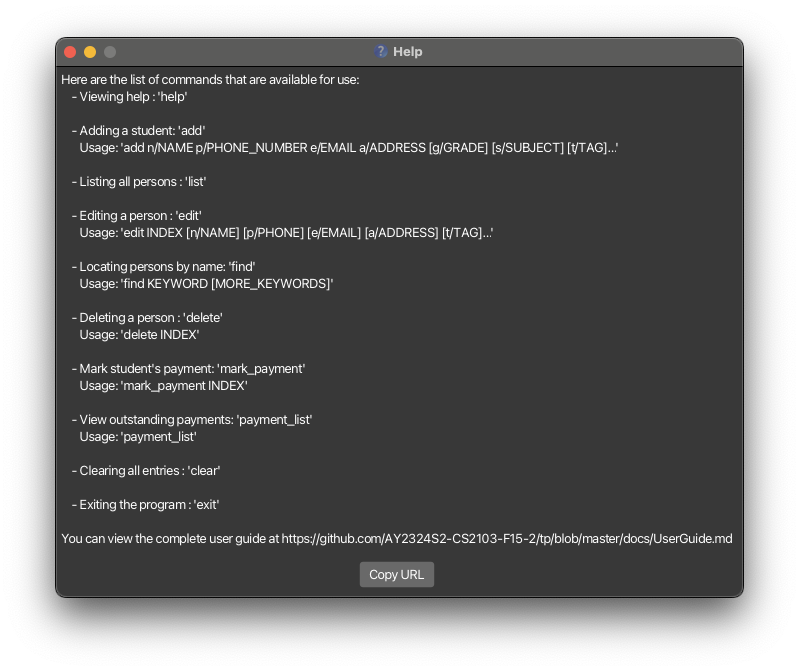
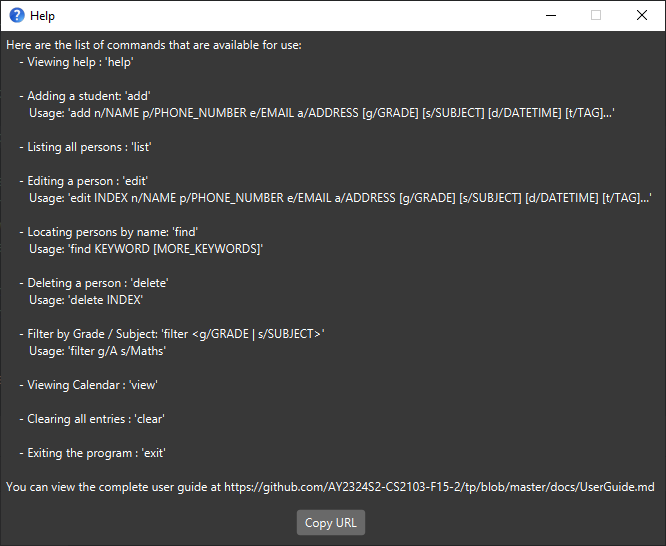
Update UserGuide.md

diff --git a/src/main/java/seedu/address/ui/HelpWindow.java b/src/main/java/seedu/address/ui/HelpWindow.java
@@ -33,6 +33,7 @@ public class HelpWindow extends UiPart<Stage> {
                     + "       Usage: 'delete INDEX'\n\n"
                     + "    - Filter by Grade / Subject: 'filter <g/GRADE | s/SUBJECT>'\n"
                     + "       Usage: 'filter g/A s/Maths'\n\n"
+                    + "    - Viewing Calendar : 'view'\n\n"
                     + "    - Clearing all entries : 'clear'\n\n"
                     + "    - Exiting the program : 'exit'\n\n"
                     + "You can view the complete user guide at "

diff --git a/docs/UserGuide.md b/docs/UserGuide.md
@@ -27,7 +27,7 @@ TutorsGo is a **desktop app for managing contacts, optimized for use via a Comma
 
    * `list` : Lists all contacts.
 
-   * `add n/John Doe p/98765432 e/johnd@example.com a/John street, block 123, #01-01 d/2024-02-03 1800 at/present pa/paid` : Adds a contact named `John Doe` to the Address Book.
+   * `add n/John Doe p/98765432 e/johnd@example.com a/John street, block 123, #01-01 s/English d/2024-02-03 1800` : Adds a contact named `John Doe` to the Address Book.
 
    * `delete 3` : Deletes the 3rd contact shown in the current list.
 
@@ -57,7 +57,7 @@ TutorsGo is a **desktop app for managing contacts, optimized for use via a Comma
 * Parameters can be in any order.<br>
   e.g. if the command specifies `n/NAME p/PHONE_NUMBER`, `p/PHONE_NUMBER n/NAME` is also acceptable.
 
-* Extraneous parameters for commands that do not take in parameters (such as `help`, `list`, `exit` and `clear`) will be ignored.<br>
+* Extraneous parameters for commands that do not take in parameters (such as `help`, `view` `list`, `exit` and `clear`) will be ignored.<br>
   e.g. if the command specifies `help 123`, it will be interpreted as `help`.
 
 * If you are using a PDF version of this document, be careful when copying and pasting commands that span multiple lines as space characters surrounding line-breaks may be omitted when copied over to the application.
@@ -76,7 +76,7 @@ Format: `help`
 
 Adds a student to the address book.
 
-Format: `add n/NAME p/PHONE_NUMBER e/EMAIL a/ADDRESS [g/GRADE] [s/SUBJECT] [d/DATETIME] [t/TAG]…`
+Format: `add n/NAME p/PHONE_NUMBER e/EMAIL a/ADDRESS [g/GRADE] [s/SUBJECT] [d/DATETIME]… [t/TAG]…`
 
 <div markdown="span" class="alert alert-primary">:bulb: **Tip:**
 A student can have any number of tags (including 0)
@@ -98,7 +98,7 @@ Format: `list`
 
 Edits an existing student in the address book.
 
-Format: `edit INDEX [n/NAME] [p/PHONE] [e/EMAIL] [a/ADDRESS] [t/TAG]…`
+Format: `edit INDEX [n/NAME] [p/PHONE] [e/EMAIL] [a/ADDRESS] [g/GRADE] [s/SUBJECT] [d/DATETIME]… [t/TAG]…`
 
 * Edits the student at the specified `INDEX`. The index refers to the index number shown in the displayed student list. The index **must be a positive integer** 1, 2, 3, …
 * At least one of the optional fields must be provided.
@@ -142,6 +142,9 @@ Format: `filter [g/GRADE] [s/SUBJECT]`
 ### View Schedule: `view`
 
 Displays a calendar to view scheduled classes.
+
+Example:
+![Calendar](images/ViewCalendar.png)
 
 Format: `view`
 

diff --git a/docs/DeveloperGuide.md b/docs/DeveloperGuide.md
@@ -343,12 +343,9 @@ Priorities: High (must have) - `* * *`, Medium (nice to have) - `* *`, Low (unli
 | `* * *` | tutor     | edit details of a student                   | update whenever their contact details changes                           |
 | `* * *` | tutor     | edit my own details                         | update whenever my contact details changes                              |
 | `* *`   | tutor     | filter my students by subject / grade level | tailor my teaching approach according to students' needs                |
-| `* *`   | tutor     | mark students' monthly payments             | keep track of any payments left unpaid                                  |
 | `* *`   | tutor     | view all outstanding payments               | remind their parents of their tuition fees                              |
 | `* *`   | tutor     | sort the students by grade level            | tailor my teaching approach according to students' needs                |
 | `* *`   | tutor     | view my schedules                           | get to the appointed lessons on time                                    |
-| `* *`   | tutor     | get reminders incoming weekly sessions      | remember my upcoming lessons                                            |
-| `*`     | tutor     | communicate with my students on the App     | update them on any academic details I missed during lessons             |
 | `*`     | tutor     | track attendence of students                | monitor their commitment to tutoring sessions                           |
 | `*`     | tutor     | reschedule sessions with my students        | accomodate changes in availability                                      |
 | `*`     | tutor     | make session notes for students             | keep track of lesson details                                            |
